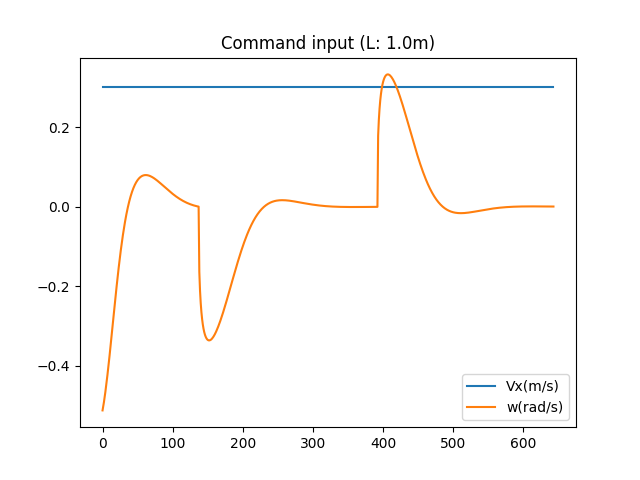
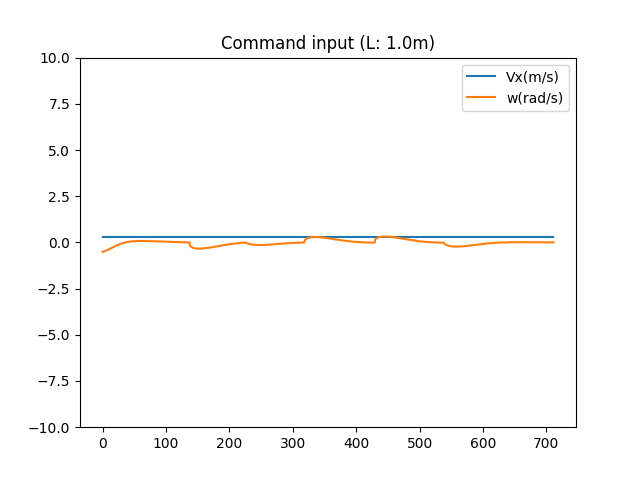
update waypoints

diff --git a/src/follow_the_carrot.py b/src/follow_the_carrot.py
@@ -14,8 +14,9 @@ wp = 0
 vx = 0.3
 theta = 0.5
 w_limit = 0.48
-waypoints = [[0, 8], [5, 8], [5, 0], [12, 0]]
+#waypoints = [[0, 8], [5, 8], [5, 0], [12, 0]]
 #waypoints = [[0, 8], [5, 8], [6, 10], [5, 0], [12, 0]]
+waypoints = [[0, 8], [5, 8], [5, 5], [3, 3], [5 ,0], [8, 2], [12, 0]]
 position = [0, 8.5]
 
 def position_vector(vx, w, theta):
@@ -104,6 +105,7 @@ while np.linalg.norm(np.array(position)-waypoints[len(waypoints)-1])>0.1:
         plt.waitforbuttonpress()
         plt.cla()
         plt.axis(option='auto')
+        plt.ylim(-10, 10)
         plt.title("Command input (L: {}m)".format(L))
         plt.plot(command_list)
         plt.legend(['Vx(m/s)','w(rad/s)'])

diff --git a/src/pure_pursuit.py b/src/pure_pursuit.py
@@ -14,8 +14,9 @@ wp = 0
 vx = 0.3
 theta = 0.5
 w_limit = 0.48
-waypoints = [[0, 8], [5, 8], [5, 0], [12, 0]]
+#waypoints = [[0, 8], [5, 8], [5, 0], [12, 0]]
 #waypoints = [[0, 8], [5, 8], [6, 10], [5, 0], [12, 0]]
+waypoints = [[0, 8], [5, 8], [5, 5], [3, 3], [5 ,0], [8, 2], [12, 0]]
 position = [0, 8.5]
 
 def position_vector(vx, w, theta):
@@ -110,6 +111,7 @@ while np.linalg.norm(np.array(position)-waypoints[len(waypoints)-1])>0.1:
         plt.waitforbuttonpress()
         plt.cla()
         plt.axis(option='auto')
+        plt.ylim(-10, 10)
         plt.title("Command input (L: {}m)".format(L))
         plt.plot(command_list)
         plt.legend(['Vx(m/s)','w(rad/s)'])
